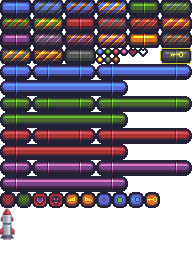
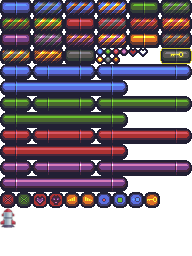
feat:  Second to add the missile

Changed region(s): [[0.0, 0.8125, 0.0938, 0.9375]]

diff --git a/breakout/settings.py b/breakout/settings.py
@@ -73,6 +73,7 @@ TEXTURES = {
     "spritesheet": pygame.image.load(BASE_DIR / "graphics" / "breakout.png"),
     "hearts": pygame.image.load(BASE_DIR / "graphics" / "hearts.png"),
     "arrows": pygame.image.load(BASE_DIR / "graphics" / "arrows.png"),
+    "missile": pygame.image.load(BASE_DIR / "graphics" / "missile.png")
 }
 
 FRAMES = {
@@ -82,6 +83,7 @@ FRAMES = {
     "hearts": generate_frames(TEXTURES["hearts"], 10, 9),
     "arrows": generate_frames(TEXTURES["arrows"], 24, 24),
     "powerups": generate_powerups_frames(),
+    "missile": generate_frames(TEXTURES["missile"], 20, 16),
 }
 
 pygame.font.init()

diff --git a/breakout/src/states/PlayState.py b/breakout/src/states/PlayState.py
@@ -117,7 +117,7 @@ class PlayState(BaseState):
                 )
 
             # Chance to generate CatchBall
-            elif random.random() < 0.1:
+            elif random.random() < 0.5:
                 r = brick.get_collision_rect()
                 self.powerups.append(
                     self.powerups_abstract_factory.get_factory("CatchBall").create(

diff --git a/breakout/src/powerups/CatchBall.py b/breakout/src/powerups/CatchBall.py
@@ -19,7 +19,7 @@ class CatchBall(PowerUp):
     Power-up to  catch the ball to the game.
     """
     def __init__(self, x: int, y: int) -> None:
-        super().__init__(x, y, 10)
+        super().__init__(x, y, 3)
 
     def take(self, play_state: TypeVar("PlayState")) -> None:
         paddle = play_state.paddle
